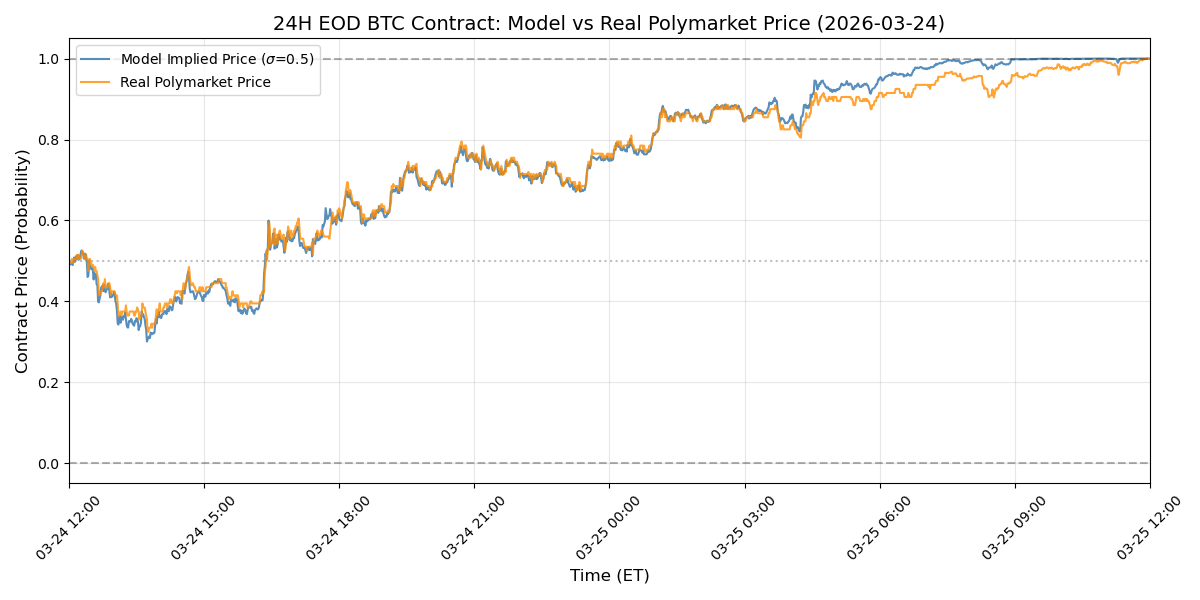
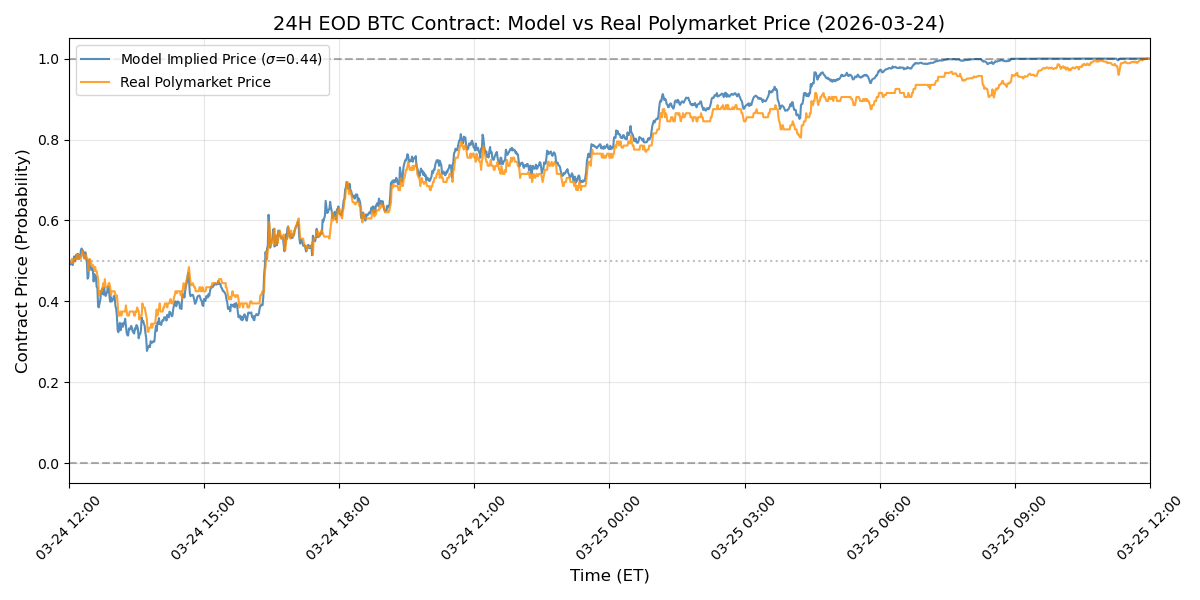
image

diff --git a/single_day_real_vs_model_price.py b/single_day_real_vs_model_price.py
@@ -8,7 +8,7 @@ from pathlib import Path
 import sys
 
 # --- 1. Model Parameters ---
-sigma = 0.50  # Assumed annualized volatility of BTC (50%)
+sigma = 0.44  # Assumed annualized volatility of BTC (50%)
 SECONDS_IN_YEAR = 365 * 24 * 3600
 
 # THE FIX: Manually input the official Polymarket strike price for days that resolve incorrectly.
